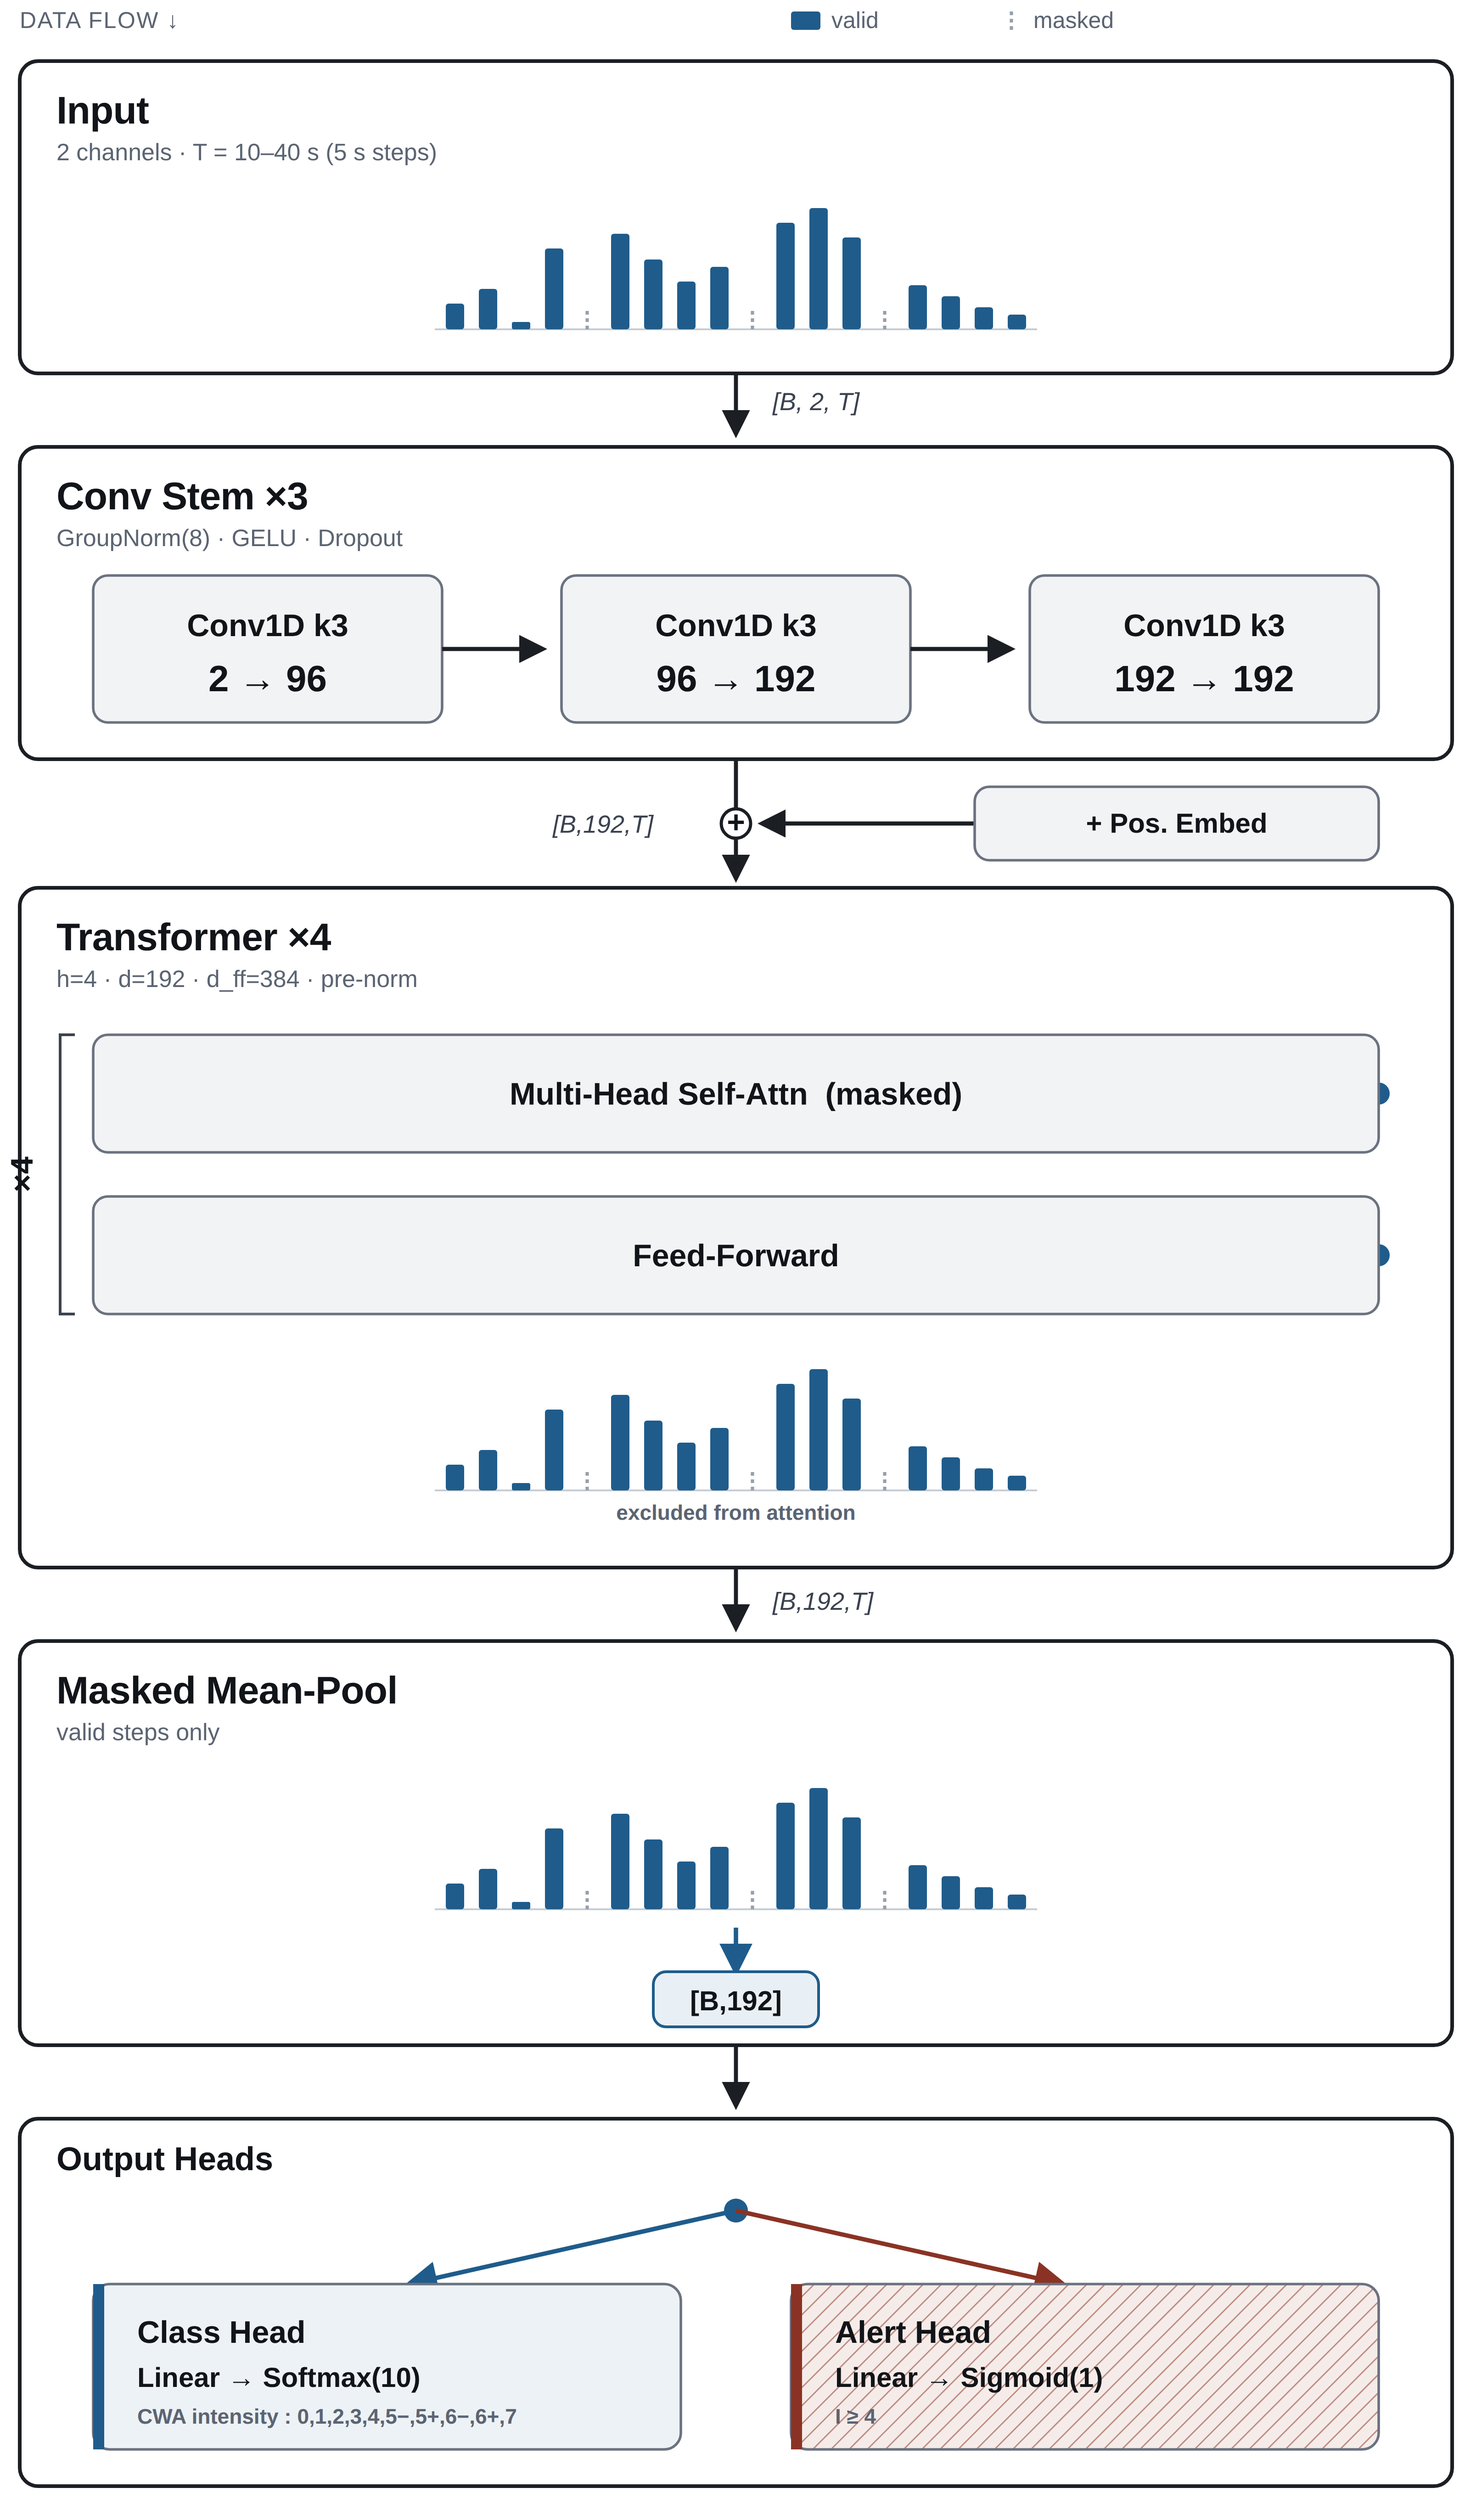
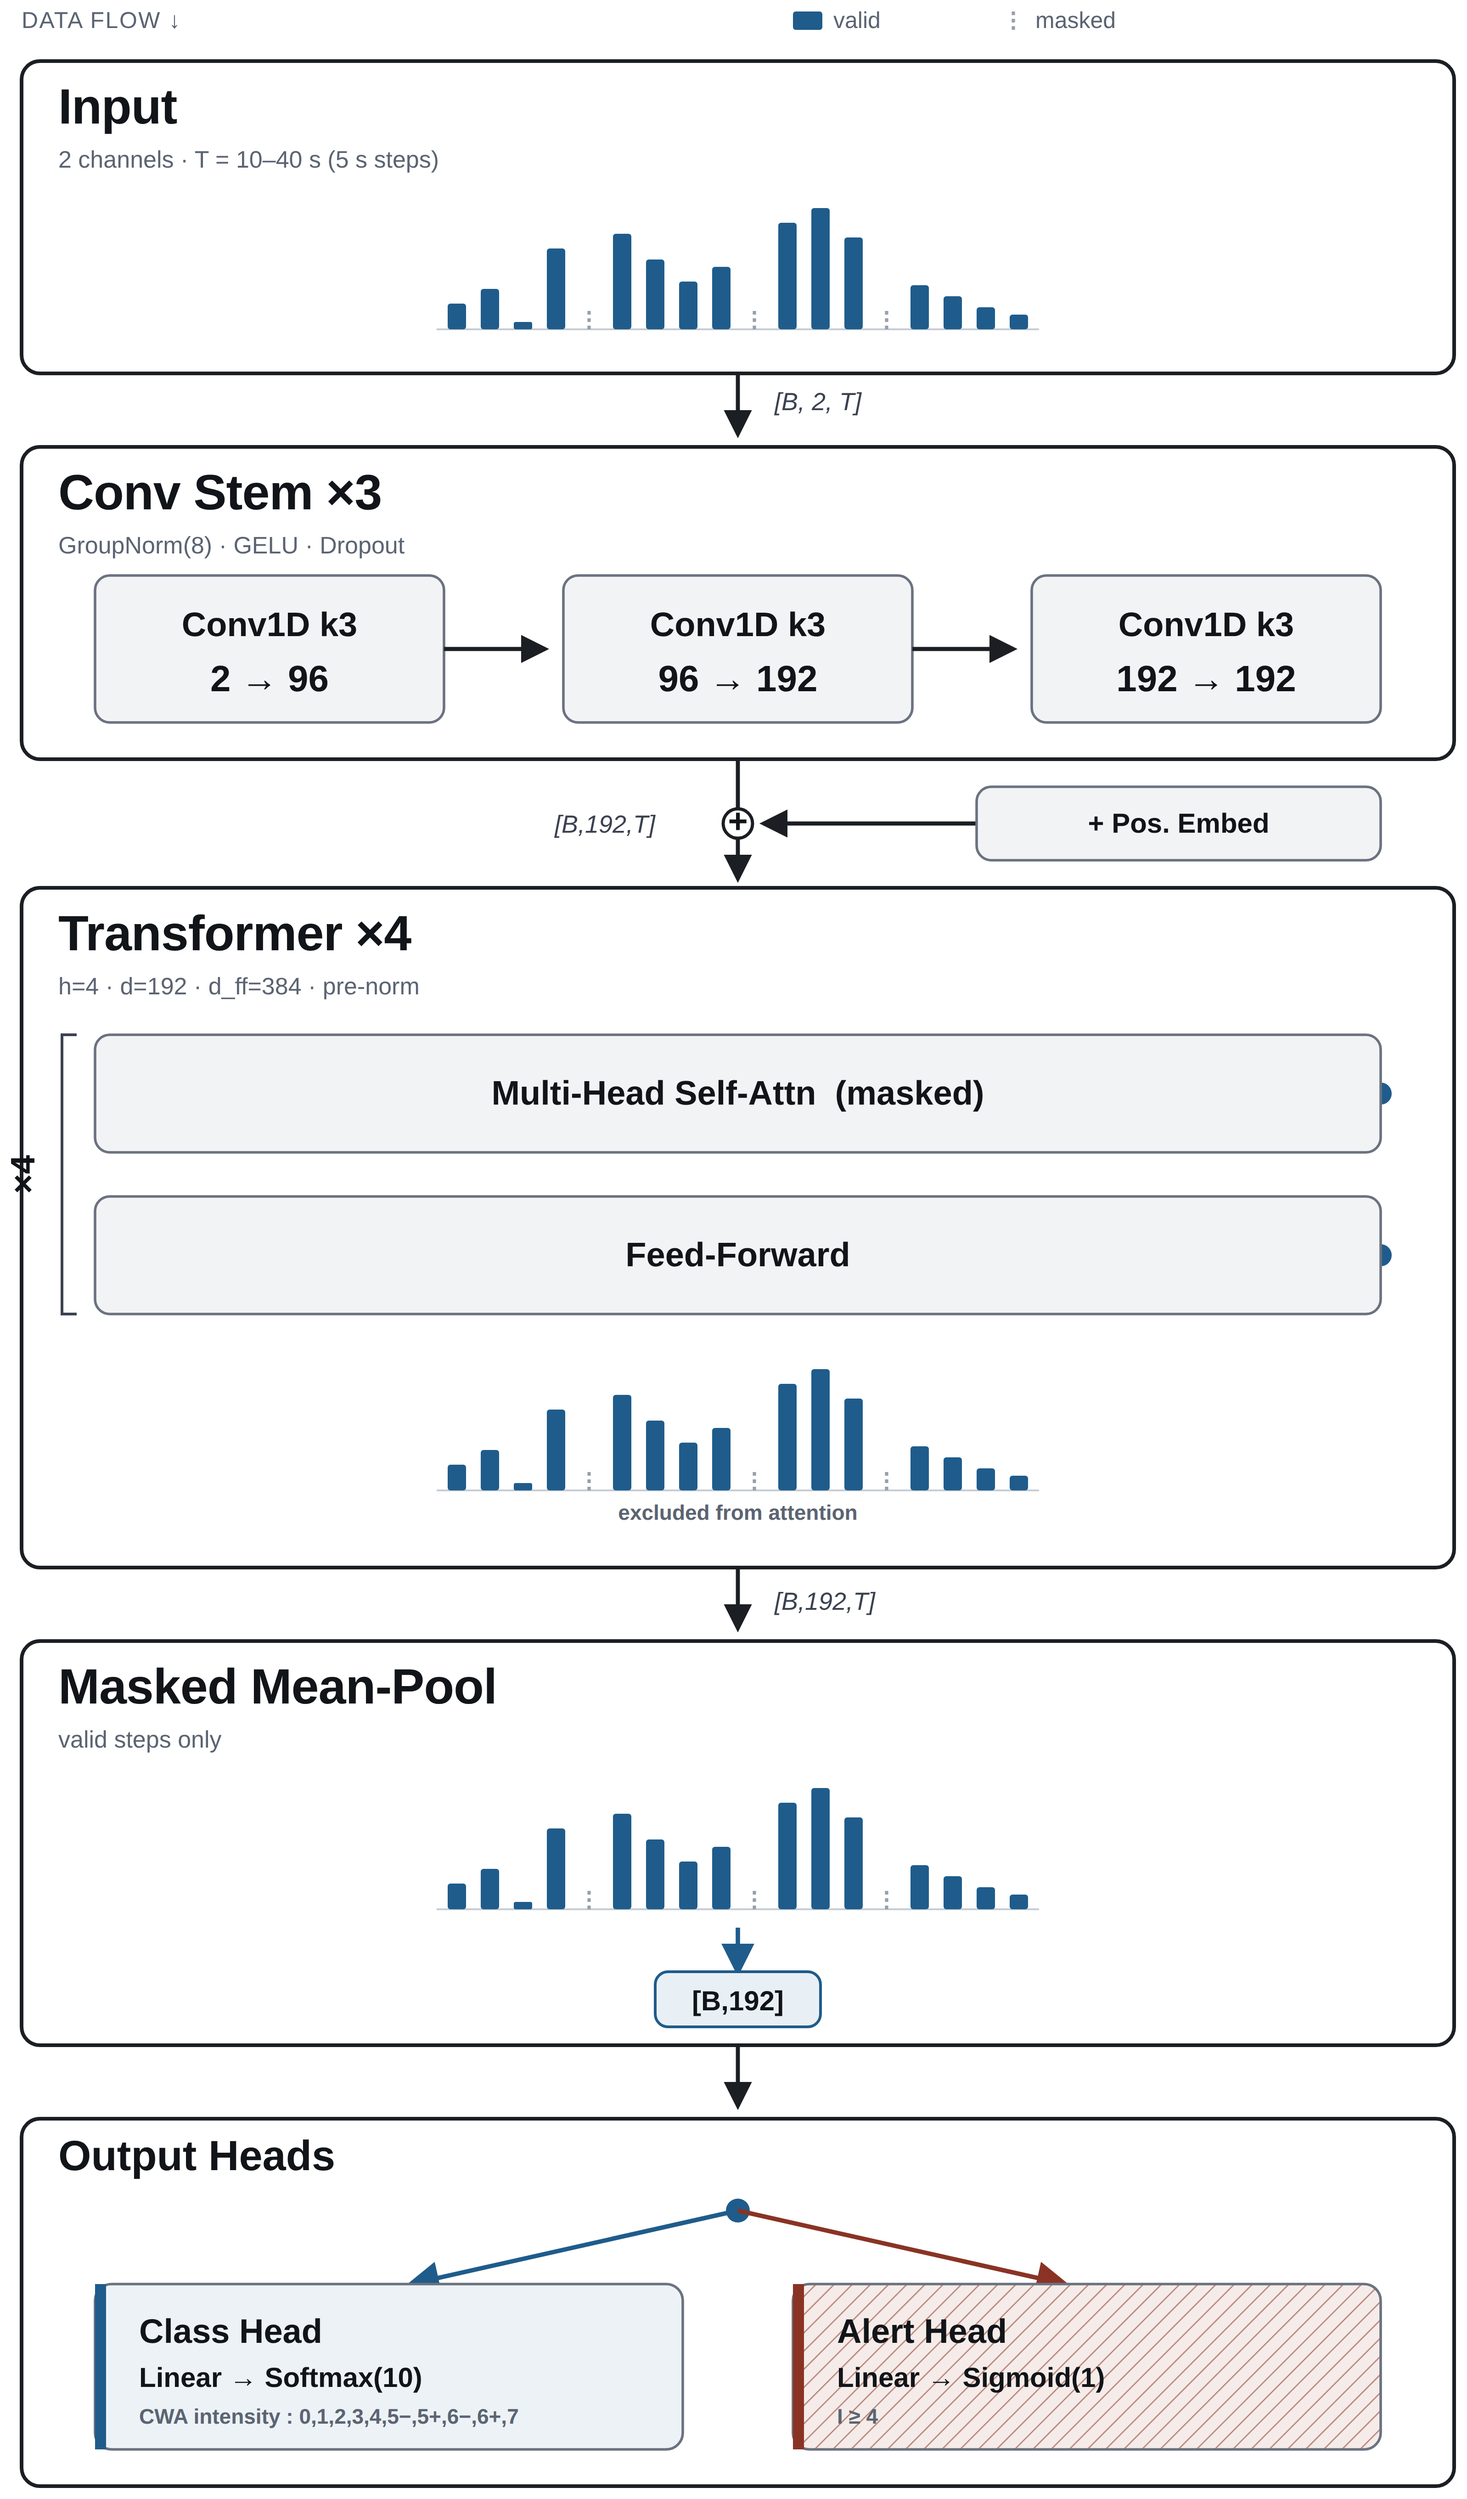
Enlarge stage and component titles in the architecture figure
Claude-Session: https://claude.ai/code/session_016u34L8FmgjsP2WkeaaCHhA

diff --git a/figures/SSIF_Architecture_source.html b/figures/SSIF_Architecture_source.html
@@ -13,10 +13,10 @@
   .stage-box { fill: #FFFFFF; stroke: #1B1E23; stroke-width: 2; }
   .sub-box   { fill: #F2F3F5; stroke: #6B7280; stroke-width: 1.4; }
 
-  .title-lg   { font-size: 21px; font-weight: 800; fill: #111418; letter-spacing: -0.01em; }
-  .title-md   { font-size: 18px; font-weight: 800; fill: #111418; }
+  .title-lg   { font-size: 27px; font-weight: 800; fill: #111418; letter-spacing: -0.01em; }
+  .title-md   { font-size: 23px; font-weight: 800; fill: #111418; }
   .param-line { font-size: 13px; fill: #5B6472; }
-  .box-title  { font-size: 17px; font-weight: 700; fill: #111418; }
+  .box-title  { font-size: 18.5px; font-weight: 700; fill: #111418; }
   .box-num    { font-size: 20px; font-weight: 800; fill: #111418; }
   .box-formula{ font-size: 15px; font-weight: 700; fill: #111418; }
   .tag-sm     { font-size: 11.5px; fill: #5B6472; font-weight: 600; }
@@ -94,7 +94,7 @@
   <!-- ===================================================== -->
   <rect x="60" y="50" width="780" height="170" rx="10" class="stage-box"/>
   <text x="80" y="84" class="title-lg">Input</text>
-  <text x="80" y="104" class="param-line">2 channels &middot; T = 10&ndash;40 s (5 s steps)</text>
+  <text x="80" y="108" class="param-line">2 channels &middot; T = 10&ndash;40 s (5 s steps)</text>
   <use href="#seq-glyph" transform="translate(292,196)"/>
 
   <line x1="450" y1="220" x2="450" y2="253" class="conn-line" marker-end="url(#arrow-ink)"/>
@@ -105,7 +105,7 @@
   <!-- ===================================================== -->
   <rect x="60" y="260" width="780" height="170" rx="10" class="stage-box"/>
   <text x="80" y="294" class="title-lg">Conv Stem &times;3</text>
-  <text x="80" y="314" class="param-line">GroupNorm(8) &middot; GELU &middot; Dropout</text>
+  <text x="80" y="318" class="param-line">GroupNorm(8) &middot; GELU &middot; Dropout</text>
 
   <rect x="100" y="330" width="190" height="80" rx="8" class="sub-box"/>
   <text x="195" y="363" text-anchor="middle" class="box-title">Conv1D k3</text>
@@ -135,7 +135,7 @@
   <!-- ===================================================== -->
   <rect x="60" y="500" width="780" height="370" rx="10" class="stage-box"/>
   <text x="80" y="534" class="title-lg">Transformer &times;4</text>
-  <text x="80" y="554" class="param-line">h=4 &middot; d=192 &middot; d_ff=384 &middot; pre-norm</text>
+  <text x="80" y="558" class="param-line">h=4 &middot; d=192 &middot; d_ff=384 &middot; pre-norm</text>
 
   <path d="M100,612 C300,576 600,576 800,612" class="residual-line"/>
   <circle cx="800" cy="612" r="6" class="junction-dot"/>
@@ -161,7 +161,7 @@
   <!-- ===================================================== -->
   <rect x="60" y="910" width="780" height="220" rx="10" class="stage-box"/>
   <text x="80" y="944" class="title-lg">Masked Mean-Pool</text>
-  <text x="80" y="964" class="param-line">valid steps only</text>
+  <text x="80" y="968" class="param-line">valid steps only</text>
 
   <use href="#seq-glyph" transform="translate(292,1056)"/>
   <line x1="450" y1="1066" x2="450" y2="1090" class="conn-arrow" marker-end="url(#arrow-blue)"/>
